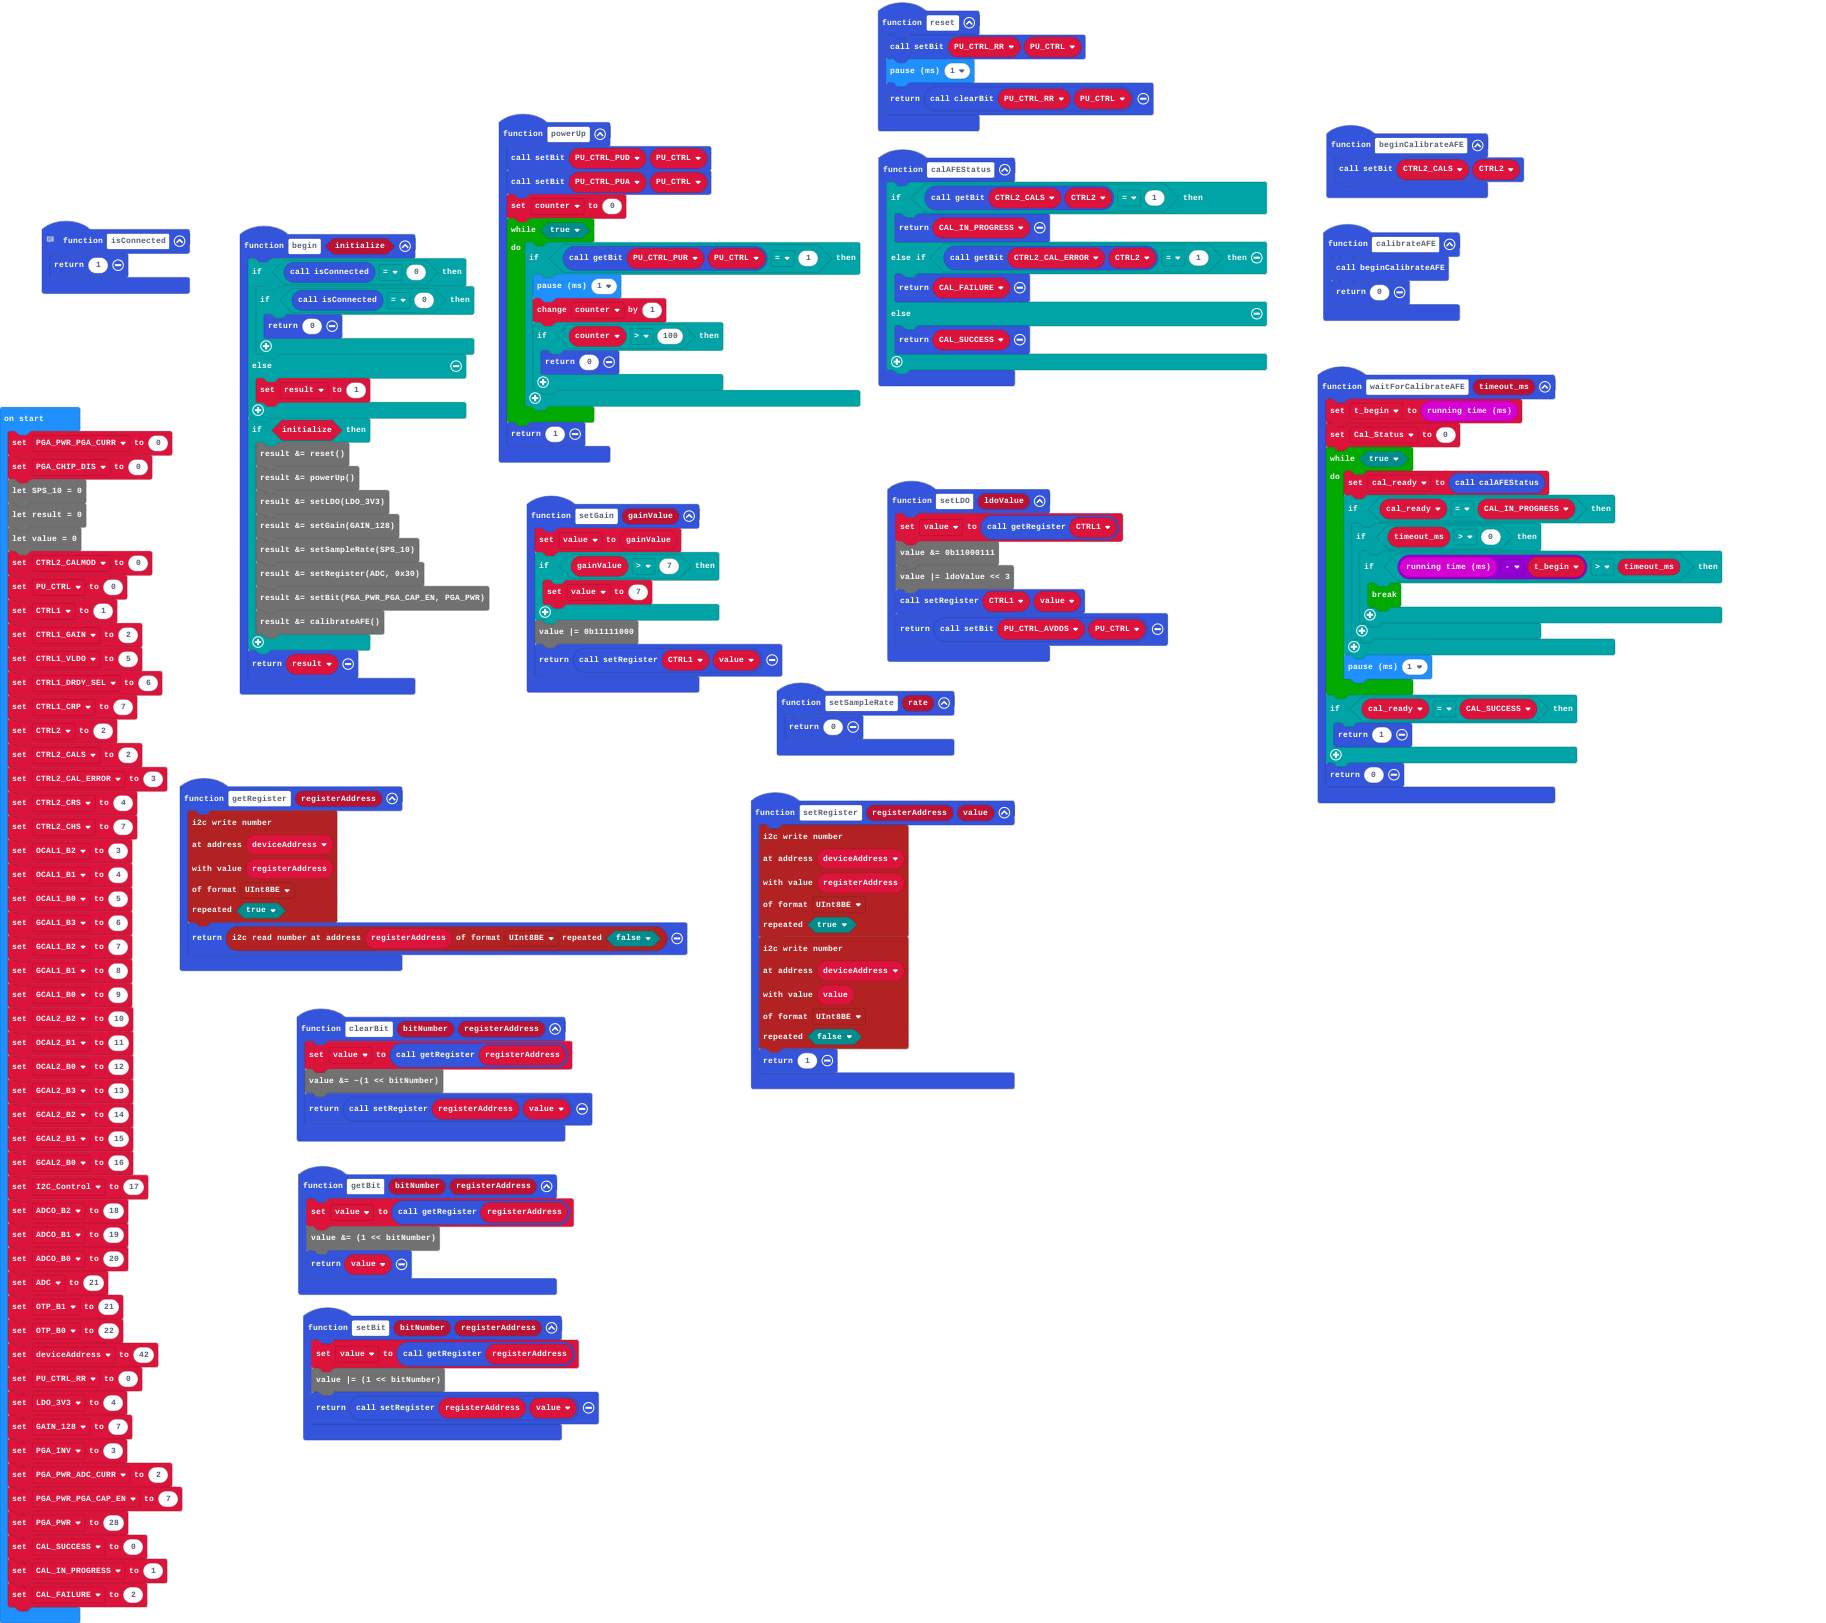
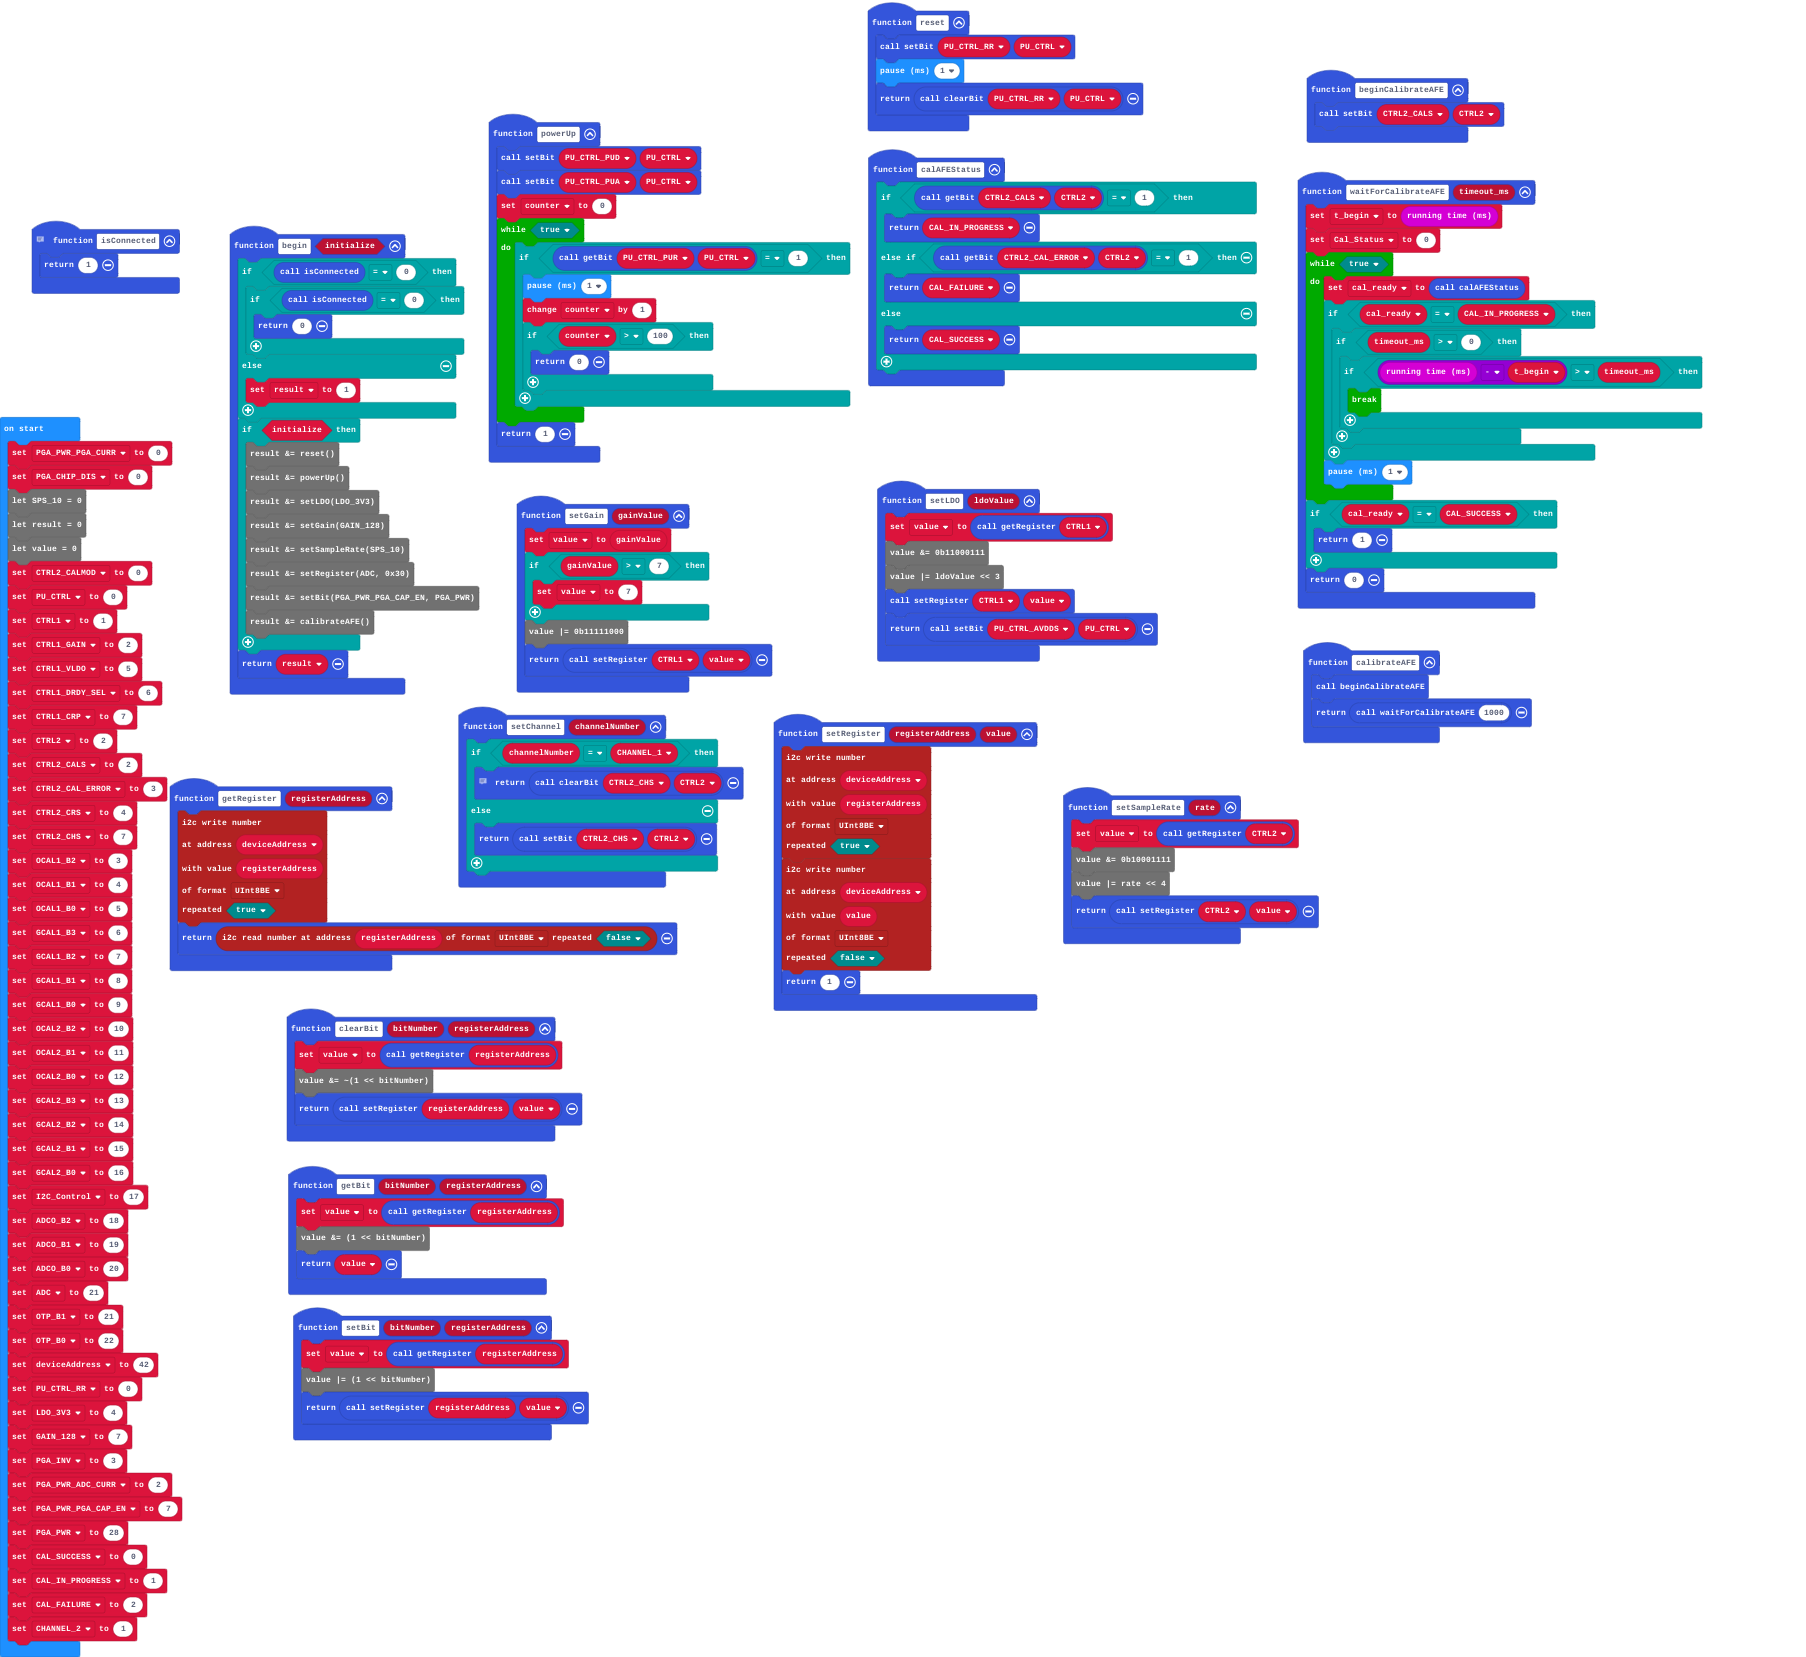
done setchannel

Changed region(s): [[0.0, 0.0, 0.9612, 1.0], [0.0, 0.2465, 0.093, 0.3081]]

diff --git a/main.ts b/main.ts
@@ -9,7 +9,7 @@ function getRegister (registerAddress: number) {
 }
 function calibrateAFE () {
     beginCalibrateAFE()
-    return 0
+    return waitForCalibrateAFE(1000)
 }
 function getBit (bitNumber: number, registerAddress: number) {
     value = getRegister(registerAddress)
@@ -87,6 +87,15 @@ function powerUp () {
     }
     return 1
 }
+function setChannel (channelNumber: number) {
+    let CHANNEL_1 = 0
+    if (channelNumber == CHANNEL_1) {
+        // Channel 1 default
+        return clearBit(CTRL2_CHS, CTRL2)
+    } else {
+        return setBit(CTRL2_CHS, CTRL2)
+    }
+}
 function setBit (bitNumber: number, registerAddress: number) {
     value = getRegister(registerAddress)
     value |= (1 << bitNumber)
@@ -113,7 +122,10 @@ function setRegister (registerAddress: number, value: number) {
     return 1
 }
 function setSampleRate (rate: number) {
-    return 0
+    value = getRegister(CTRL2)
+    value &= 0b10001111
+value |= rate << 4
+return setRegister(CTRL2, value)
 }
 // Test for ACK - dummy for now, casn ubit do this?
 function isConnected () {
@@ -147,6 +159,7 @@ let CAL_IN_PROGRESS = 0
 let CAL_SUCCESS = 0
 let PU_CTRL_RR = 0
 let deviceAddress = 0
+let CTRL2_CHS = 0
 let CTRL2_CAL_ERROR = 0
 let CTRL2_CALS = 0
 let CTRL2 = 0
@@ -168,7 +181,7 @@ CTRL2 = 2
 CTRL2_CALS = 2
 CTRL2_CAL_ERROR = 3
 let CTRL2_CRS = 4
-let CTRL2_CHS = 7
+CTRL2_CHS = 7
 let OCAL1_B2 = 3
 let OCAL1_B1 = 4
 let OCAL1_B0 = 5
@@ -201,3 +214,4 @@ let PGA_PWR = 28
 CAL_SUCCESS = 0
 CAL_IN_PROGRESS = 1
 CAL_FAILURE = 2
+let CHANNEL_2 = 1
